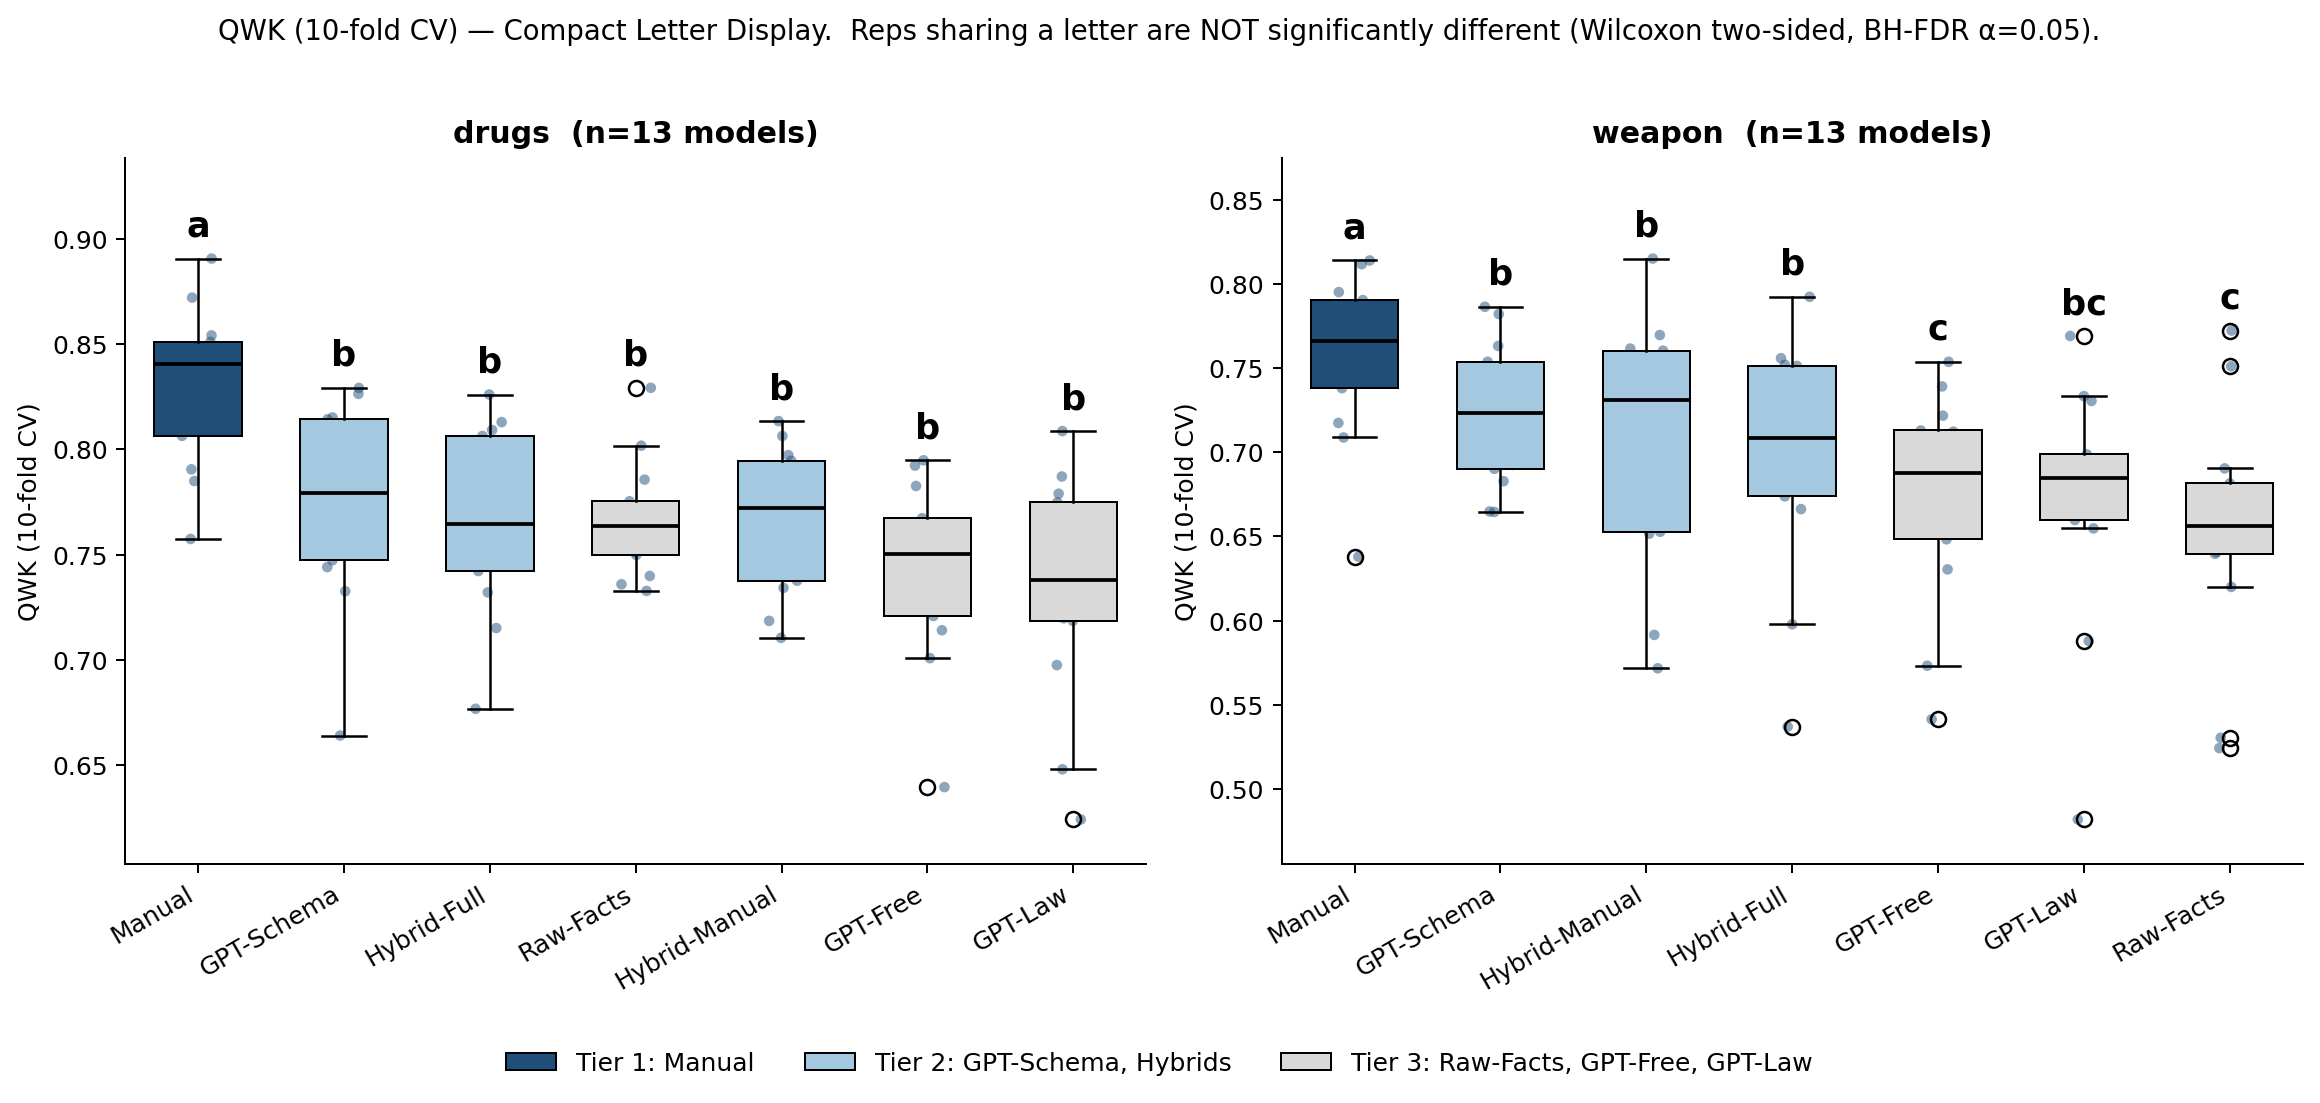
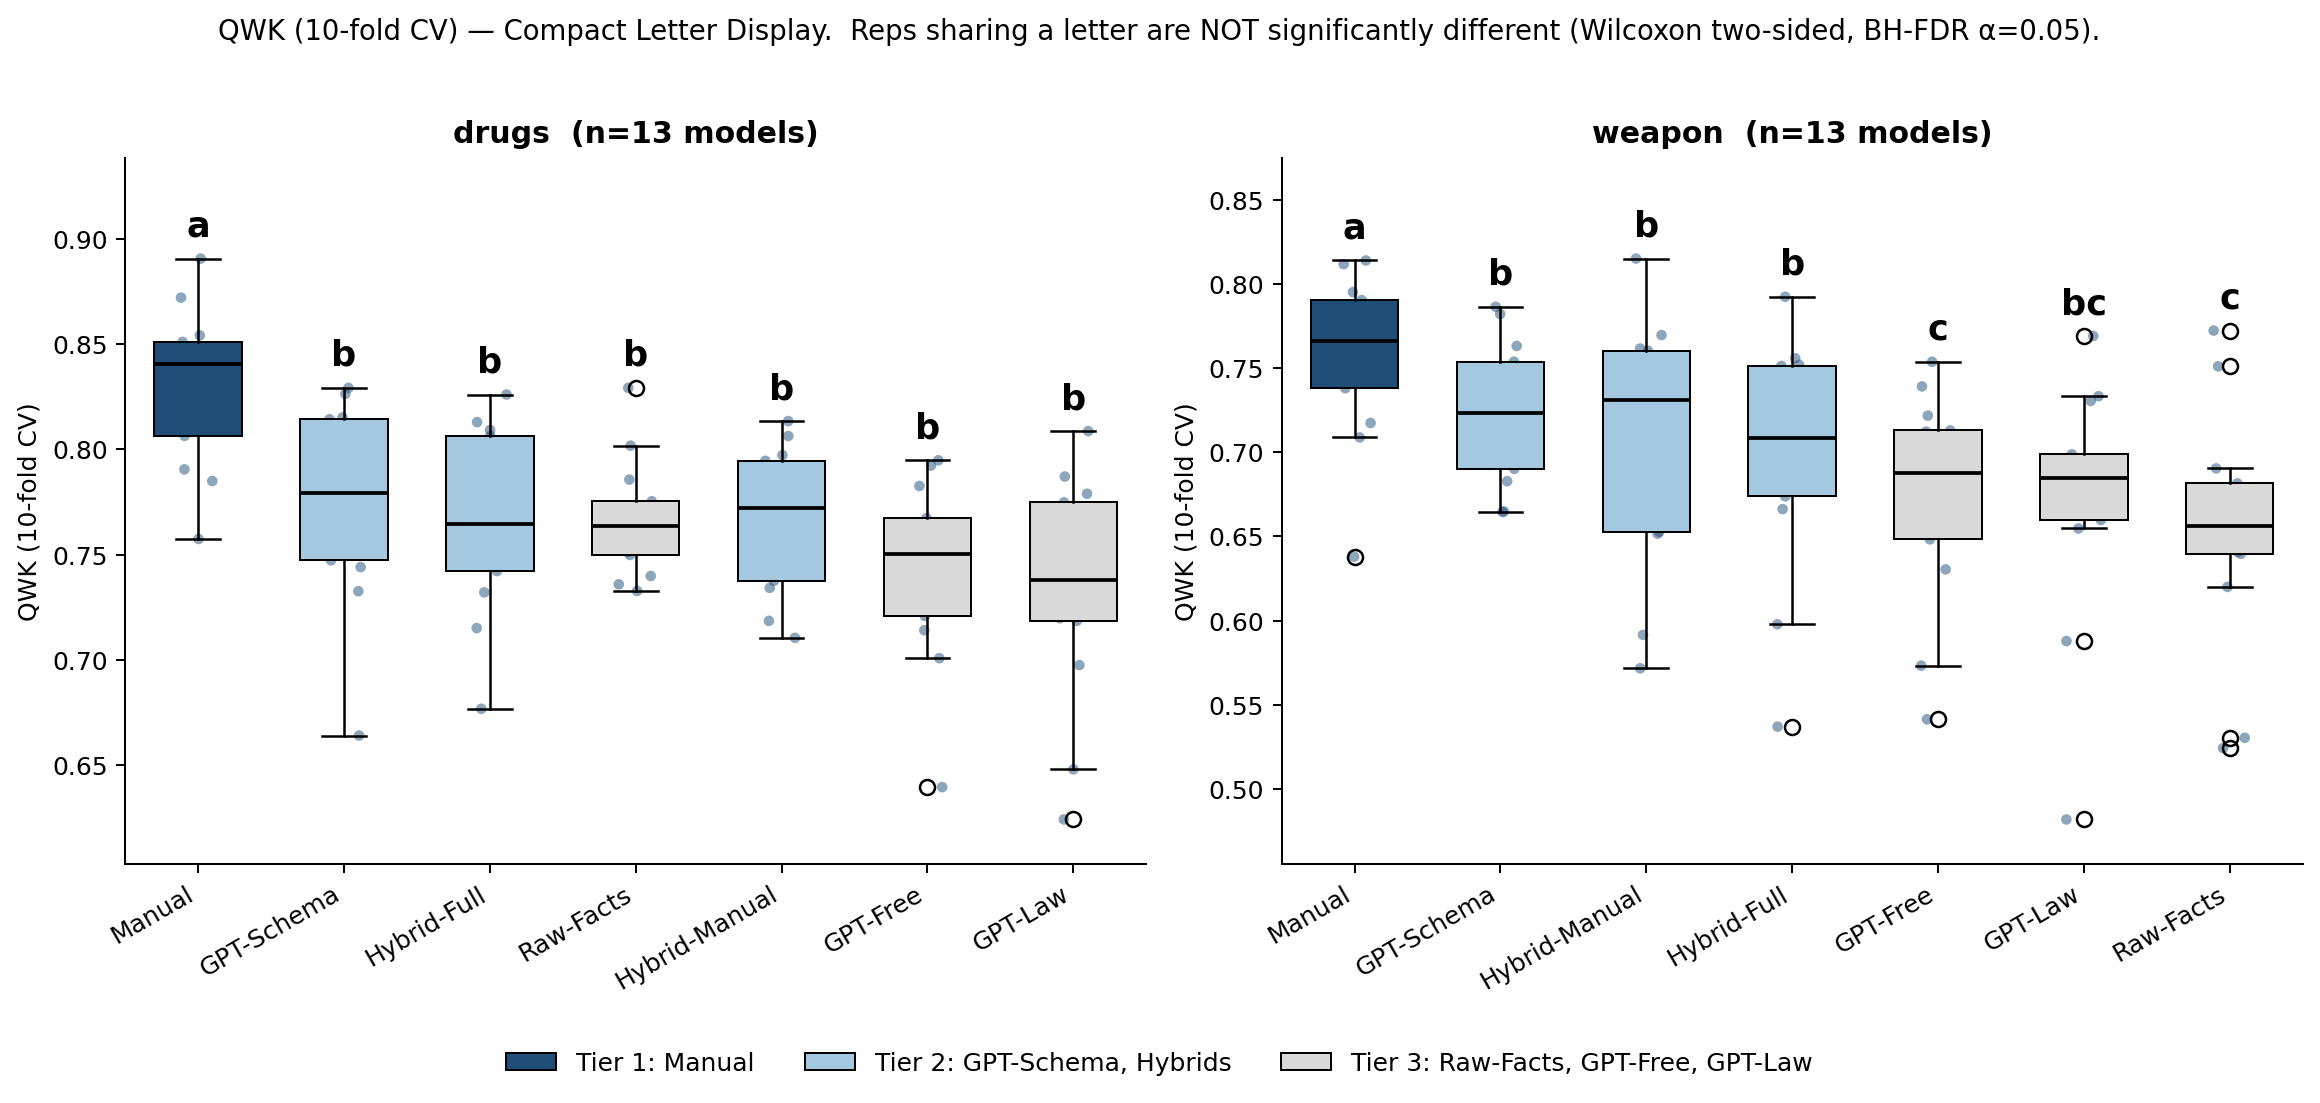
Add threshold-free metrics: Spearman ρ + C-index for N=13 panel
plot_n13_kimi.py extended to compute and plot:
  - Spearman ρ — rank correlation between score and similarity_scale
  - C-index   — pairwise concordance P(score_i > score_j | gt_i > gt_j)

Both threshold-free → immune to threshold overfit and direct measure
of representation ranking quality. New CLD figures:
  - fig_cld_spearman_n13.png
  - fig_cld_c_index_n13.png

summary_qwk_n13.csv now includes Oracle / CV10 / Spearman / C-index
mean ± std per (rep, domain).

Findings: T1>T2>T3 ordering preserved in both threshold-free metrics
across both domains. Sub-tier ordering remains visible in CLD letters.

diff --git a/src/analysis/plot_n13_kimi.py b/src/analysis/plot_n13_kimi.py
@@ -1,17 +1,22 @@
-"""Generate updated paper figures for N=13 panel (= 9 ORIG + Mistral + DeepSeek + Haiku + Kimi):
-  1. fig_extreme_errors_n13.png    — bar chart of 1↔3 error rate by rep
-  2. fig_cld_qwk_oracle_n13.png    — boxplot with Compact Letter Display for QWK Oracle
-  3. fig_cld_qwk_cv_n13.png        — boxplot with CLD for QWK 10-fold CV (generalization)
+"""Generate paper figures for N=13 panel (= 9 ORIG + Mistral + DeepSeek + Haiku + Kimi):
+  1. fig_extreme_errors_n13.png   — bar chart of 1↔3 error rate
+  2. fig_cld_qwk_oracle_n13.png   — CLD boxplot, QWK Oracle (best thresholds)
+  3. fig_cld_qwk_cv_n13.png       — CLD boxplot, QWK 10-fold CV (generalisation)
+  4. fig_cld_spearman_n13.png     — CLD boxplot, Spearman ρ (threshold-free)
+  5. fig_cld_c_index_n13.png      — CLD boxplot, C-index (threshold-free, ordinal AUC)
 
-CLD algorithm: pairwise Wilcoxon (paired across models) with BH-FDR correction at α=0.05.
-Reps sharing a letter are NOT significantly different.
+Threshold-free metrics (Spearman, C-index) measure ranking quality directly without
+any threshold fitting — they are immune to overfit and serve as the cleanest comparison
+of representation quality.
+
+CLD algorithm: pairwise Wilcoxon (paired across models) with BH-FDR α=0.05.
 """
 from pathlib import Path
 import numpy as np, pandas as pd
 import matplotlib.pyplot as plt
 from sklearn.metrics import cohen_kappa_score
 from sklearn.model_selection import StratifiedKFold
-from scipy.stats import wilcoxon
+from scipy.stats import wilcoxon, spearmanr
 from statsmodels.stats.multitest import multipletests
 
 EXP = Path(__file__).resolve().parents[2]
@@ -55,8 +60,8 @@ def best_qwk(scores, gt):
     return bq, bt[0], bt[1]
 
 def qwk_cv(scores: np.ndarray, gt: np.ndarray, k: int = 10, seed: int = 42) -> float:
-    """10-fold stratified CV: tune (t1,t2) on each train fold, score the held-out fold,
-    pool predictions, return overall QWK. Mirrors paper_results_qwk._cv_qwk."""
+    """k-fold stratified CV: tune (t1,t2) on each train fold, score the held-out fold,
+    pool predictions, return overall QWK."""
     if len(np.unique(gt)) < 2: return np.nan
     if min(np.bincount(gt - 1)) < k: return np.nan
     skf = StratifiedKFold(n_splits=k, shuffle=True, random_state=seed)
@@ -65,6 +70,19 @@ def qwk_cv(scores: np.ndarray, gt: np.ndarray, k: int = 10, seed: int = 42) -> f
         _, t1, t2 = best_qwk(scores[tr], gt[tr])
         pooled[te] = np.where(scores[te] < t1, 1, np.where(scores[te] < t2, 2, 3))
     return cohen_kappa_score(gt, pooled, weights="quadratic")
+
+
+def c_index(scores: np.ndarray, gt: np.ndarray) -> float:
+    """Pairwise concordance: P(score_i > score_j | gt_i > gt_j). Threshold-free."""
+    n = len(gt)
+    conc = pairs = 0.0
+    for i in range(n):
+        for j in range(n):
+            if gt[i] > gt[j]:
+                pairs += 1
+                if scores[i] > scores[j]: conc += 1
+                elif scores[i] == scores[j]: conc += 0.5
+    return conc / pairs if pairs > 0 else np.nan
 
 
 def cell(dom, m, prefix):
@@ -80,16 +98,20 @@ def cell(dom, m, prefix):
     pred = np.where(sc < t1, 1, np.where(sc < t2, 2, 3))
     ext = 100.0 * (((gt==1)&(pred==3)).sum() + ((gt==3)&(pred==1)).sum()) / len(gt)
     q_cv = qwk_cv(sc, gt)
-    return q_oracle, ext, q_cv
+    spear, _ = spearmanr(sc, gt)
+    cidx = c_index(sc, gt)
+    return q_oracle, ext, q_cv, spear, cidx
 
 # Collect data
+print("computing per-cell metrics (Oracle + CV10 + Spearman + C-index)...")
 rows = []
 for m in PANEL:
     for rep, prefix in REPS:
         for dom in ["drugs", "weapon"]:
             r = cell(dom, m, prefix)
             if r: rows.append(dict(model=m, rep=rep, dom=dom,
-                                   qwk=r[0], ext=r[1], qwk_cv=r[2]))
+                                   qwk=r[0], ext=r[1], qwk_cv=r[2],
+                                   spearman=r[3], c_index=r[4]))
 df = pd.DataFrame(rows)
 
 
@@ -311,18 +333,74 @@ print(f"wrote {OUT_QWK/'fig_cld_qwk_cv_n13.png'}")
 plt.close()
 
 
-# ============ Save the QWK CV summary CSV for the paper ============
-cv_summary_rows = []
+# ============ Generic CLD boxplot helper ============
+def make_cld_figure(metric_col: str, ylabel: str, suptitle_metric: str, fname: str):
+    fig, axes = plt.subplots(1, 2, figsize=(13, 6.0))
+    for ax, dom, title in zip(axes, ["drugs", "weapon"], ["drugs", "weapon"]):
+        sub = df[df.dom == dom]
+        pivot = sub.pivot_table(index="model", columns="rep", values=metric_col)
+        means = pivot.mean()
+        order = means.sort_values(ascending=False).index.tolist()
+        letters = cld_letters(pivot, higher_is_better=True)
+
+        data = [pivot[r].dropna().values for r in order]
+        bp = ax.boxplot(data, positions=range(len(order)), widths=0.6,
+                        patch_artist=True, medianprops=dict(color="black", lw=1.5))
+        for patch, rep in zip(bp["boxes"], order):
+            patch.set_facecolor(TIER_BOX_COLOR[TIER[rep]])
+            patch.set_edgecolor("black"); patch.set_linewidth(0.8)
+
+        for i, rep in enumerate(order):
+            vals = pivot[rep].dropna().values
+            ax.scatter(np.repeat(i, len(vals)) + np.random.uniform(-0.12, 0.12, len(vals)),
+                       vals, s=18, color="#1f4e79", alpha=0.5, edgecolor="none")
+
+        ymax, ymin = pivot.max().max(), pivot.min().min()
+        for i, rep in enumerate(order):
+            ax.text(i, pivot[rep].max() + (ymax-ymin)*0.04, letters[rep],
+                    ha="center", fontsize=14, fontweight="bold")
+
+        ax.set_xticks(range(len(order)))
+        ax.set_xticklabels(order, rotation=30, ha="right")
+        ax.set_ylabel(ylabel)
+        ax.set_title(f"{title}  (n=13 models)", fontweight="bold")
+        ax.spines["top"].set_visible(False); ax.spines["right"].set_visible(False)
+        ax.set_ylim(ymin - (ymax-ymin)*0.08, ymax + (ymax-ymin)*0.18)
+
+    handles = [plt.Rectangle((0,0),1,1,color=TIER_BOX_COLOR[t],ec="black",lw=0.8)
+               for t in ["T1","T2","T3"]]
+    labels = [TIER_LABEL[t] for t in ["T1","T2","T3"]]
+    fig.legend(handles, labels, loc="lower center", bbox_to_anchor=(0.5, -0.02),
+               ncol=3, frameon=False)
+    fig.suptitle(f"{suptitle_metric} — Compact Letter Display.  Reps sharing a letter are "
+                 f"NOT significantly different (Wilcoxon two-sided, BH-FDR α=0.05).",
+                 fontsize=11)
+    plt.tight_layout(rect=[0, 0.05, 1, 0.96])
+    plt.savefig(OUT_QWK/fname, dpi=180, bbox_inches="tight")
+    print(f"wrote {OUT_QWK/fname}")
+    plt.close()
+
+# Threshold-free metrics
+make_cld_figure("spearman", "Spearman ρ", "Spearman ρ (threshold-free)",
+                "fig_cld_spearman_n13.png")
+make_cld_figure("c_index",  "C-index (ordinal AUC)", "C-index (threshold-free)",
+                "fig_cld_c_index_n13.png")
+
+
+# ============ Save the unified QWK summary CSV ============
+summary_rows = []
 for dom in ["drugs", "weapon"]:
     for rep, _ in REPS:
         sub = df[(df.dom == dom) & (df.rep == rep)]
         if len(sub) == 0: continue
-        cv_summary_rows.append(dict(
+        summary_rows.append(dict(
             domain=dom, rep=rep, n_models=len(sub),
-            qwk_oracle_mean=sub.qwk.mean(), qwk_oracle_std=sub.qwk.std(),
-            qwk_cv_mean=sub.qwk_cv.mean(),  qwk_cv_std=sub.qwk_cv.std(),
-            qwk_cv_drop=sub.qwk.mean() - sub.qwk_cv.mean(),
+            qwk_oracle_mean=sub.qwk.mean(),     qwk_oracle_std=sub.qwk.std(),
+            qwk_cv_mean=sub.qwk_cv.mean(),      qwk_cv_std=sub.qwk_cv.std(),
+            spearman_mean=sub.spearman.mean(),  spearman_std=sub.spearman.std(),
+            c_index_mean=sub.c_index.mean(),    c_index_std=sub.c_index.std(),
+            cv_drop=sub.qwk.mean() - sub.qwk_cv.mean(),
         ))
-cv_summary = pd.DataFrame(cv_summary_rows)
-cv_summary.to_csv(OUT_QWK/"summary_qwk_n13.csv", index=False)
+summary = pd.DataFrame(summary_rows)
+summary.to_csv(OUT_QWK/"summary_qwk_n13.csv", index=False)
 print(f"wrote {OUT_QWK/'summary_qwk_n13.csv'}")
